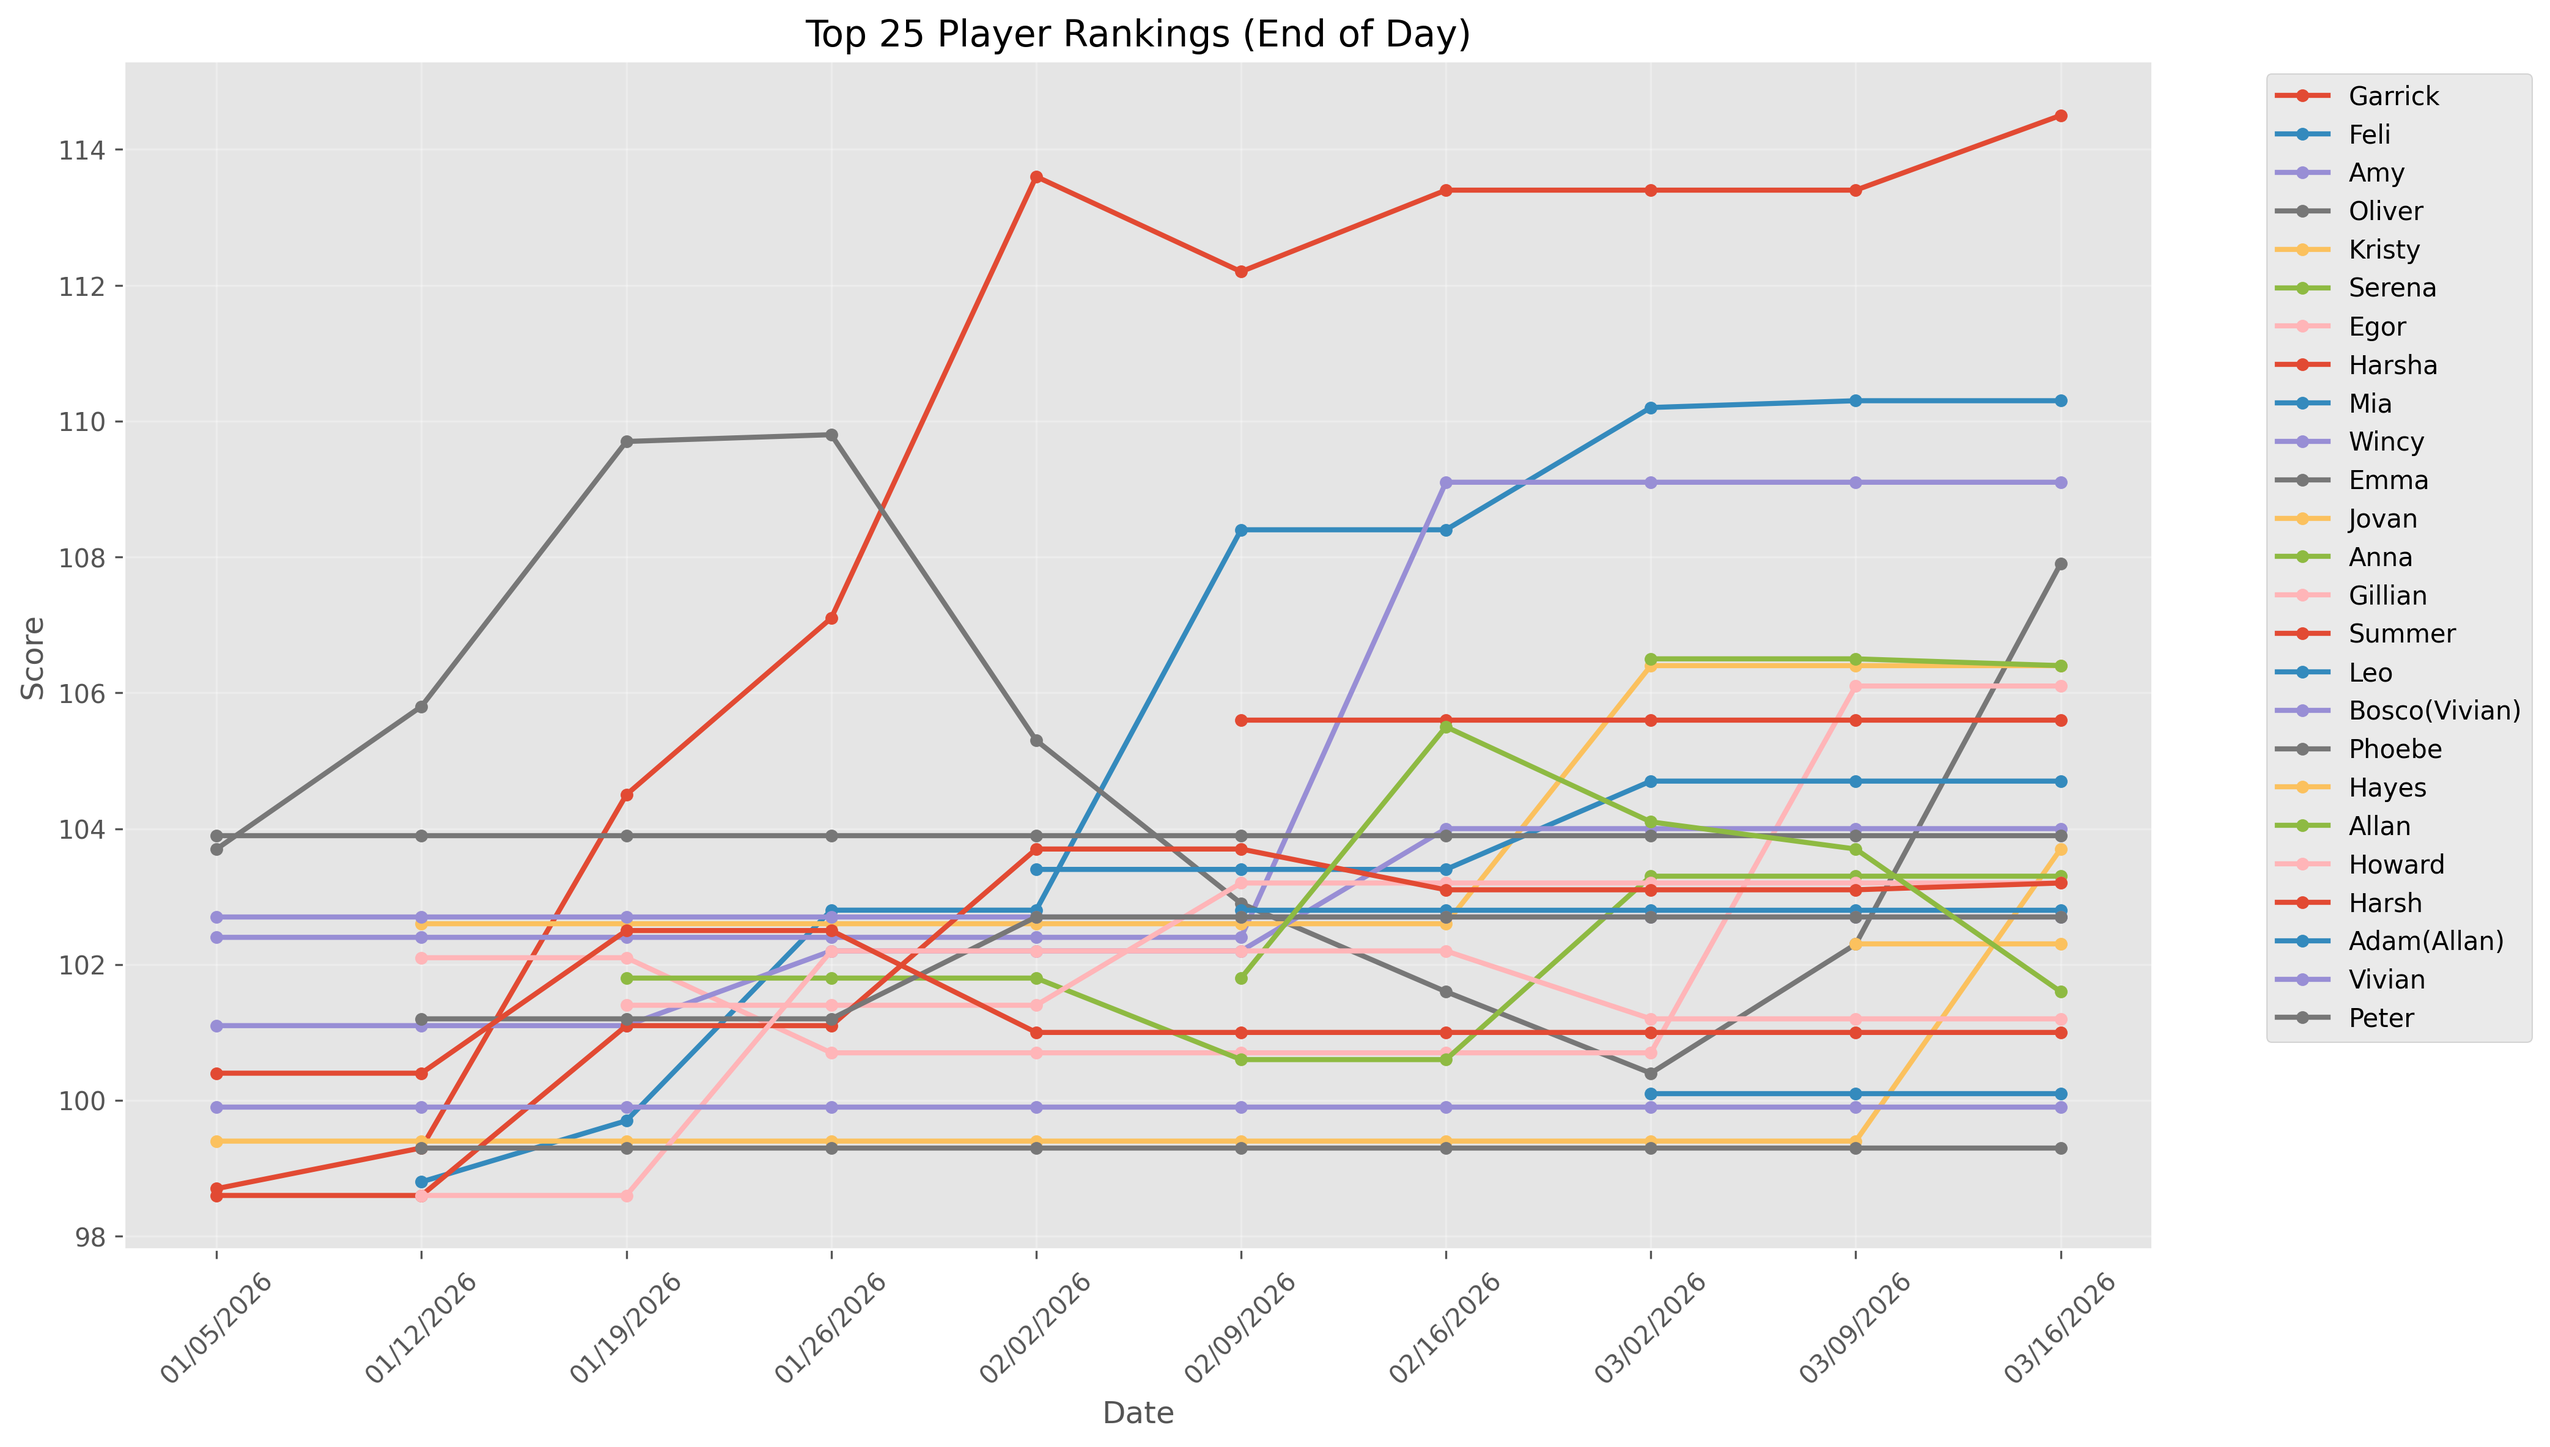
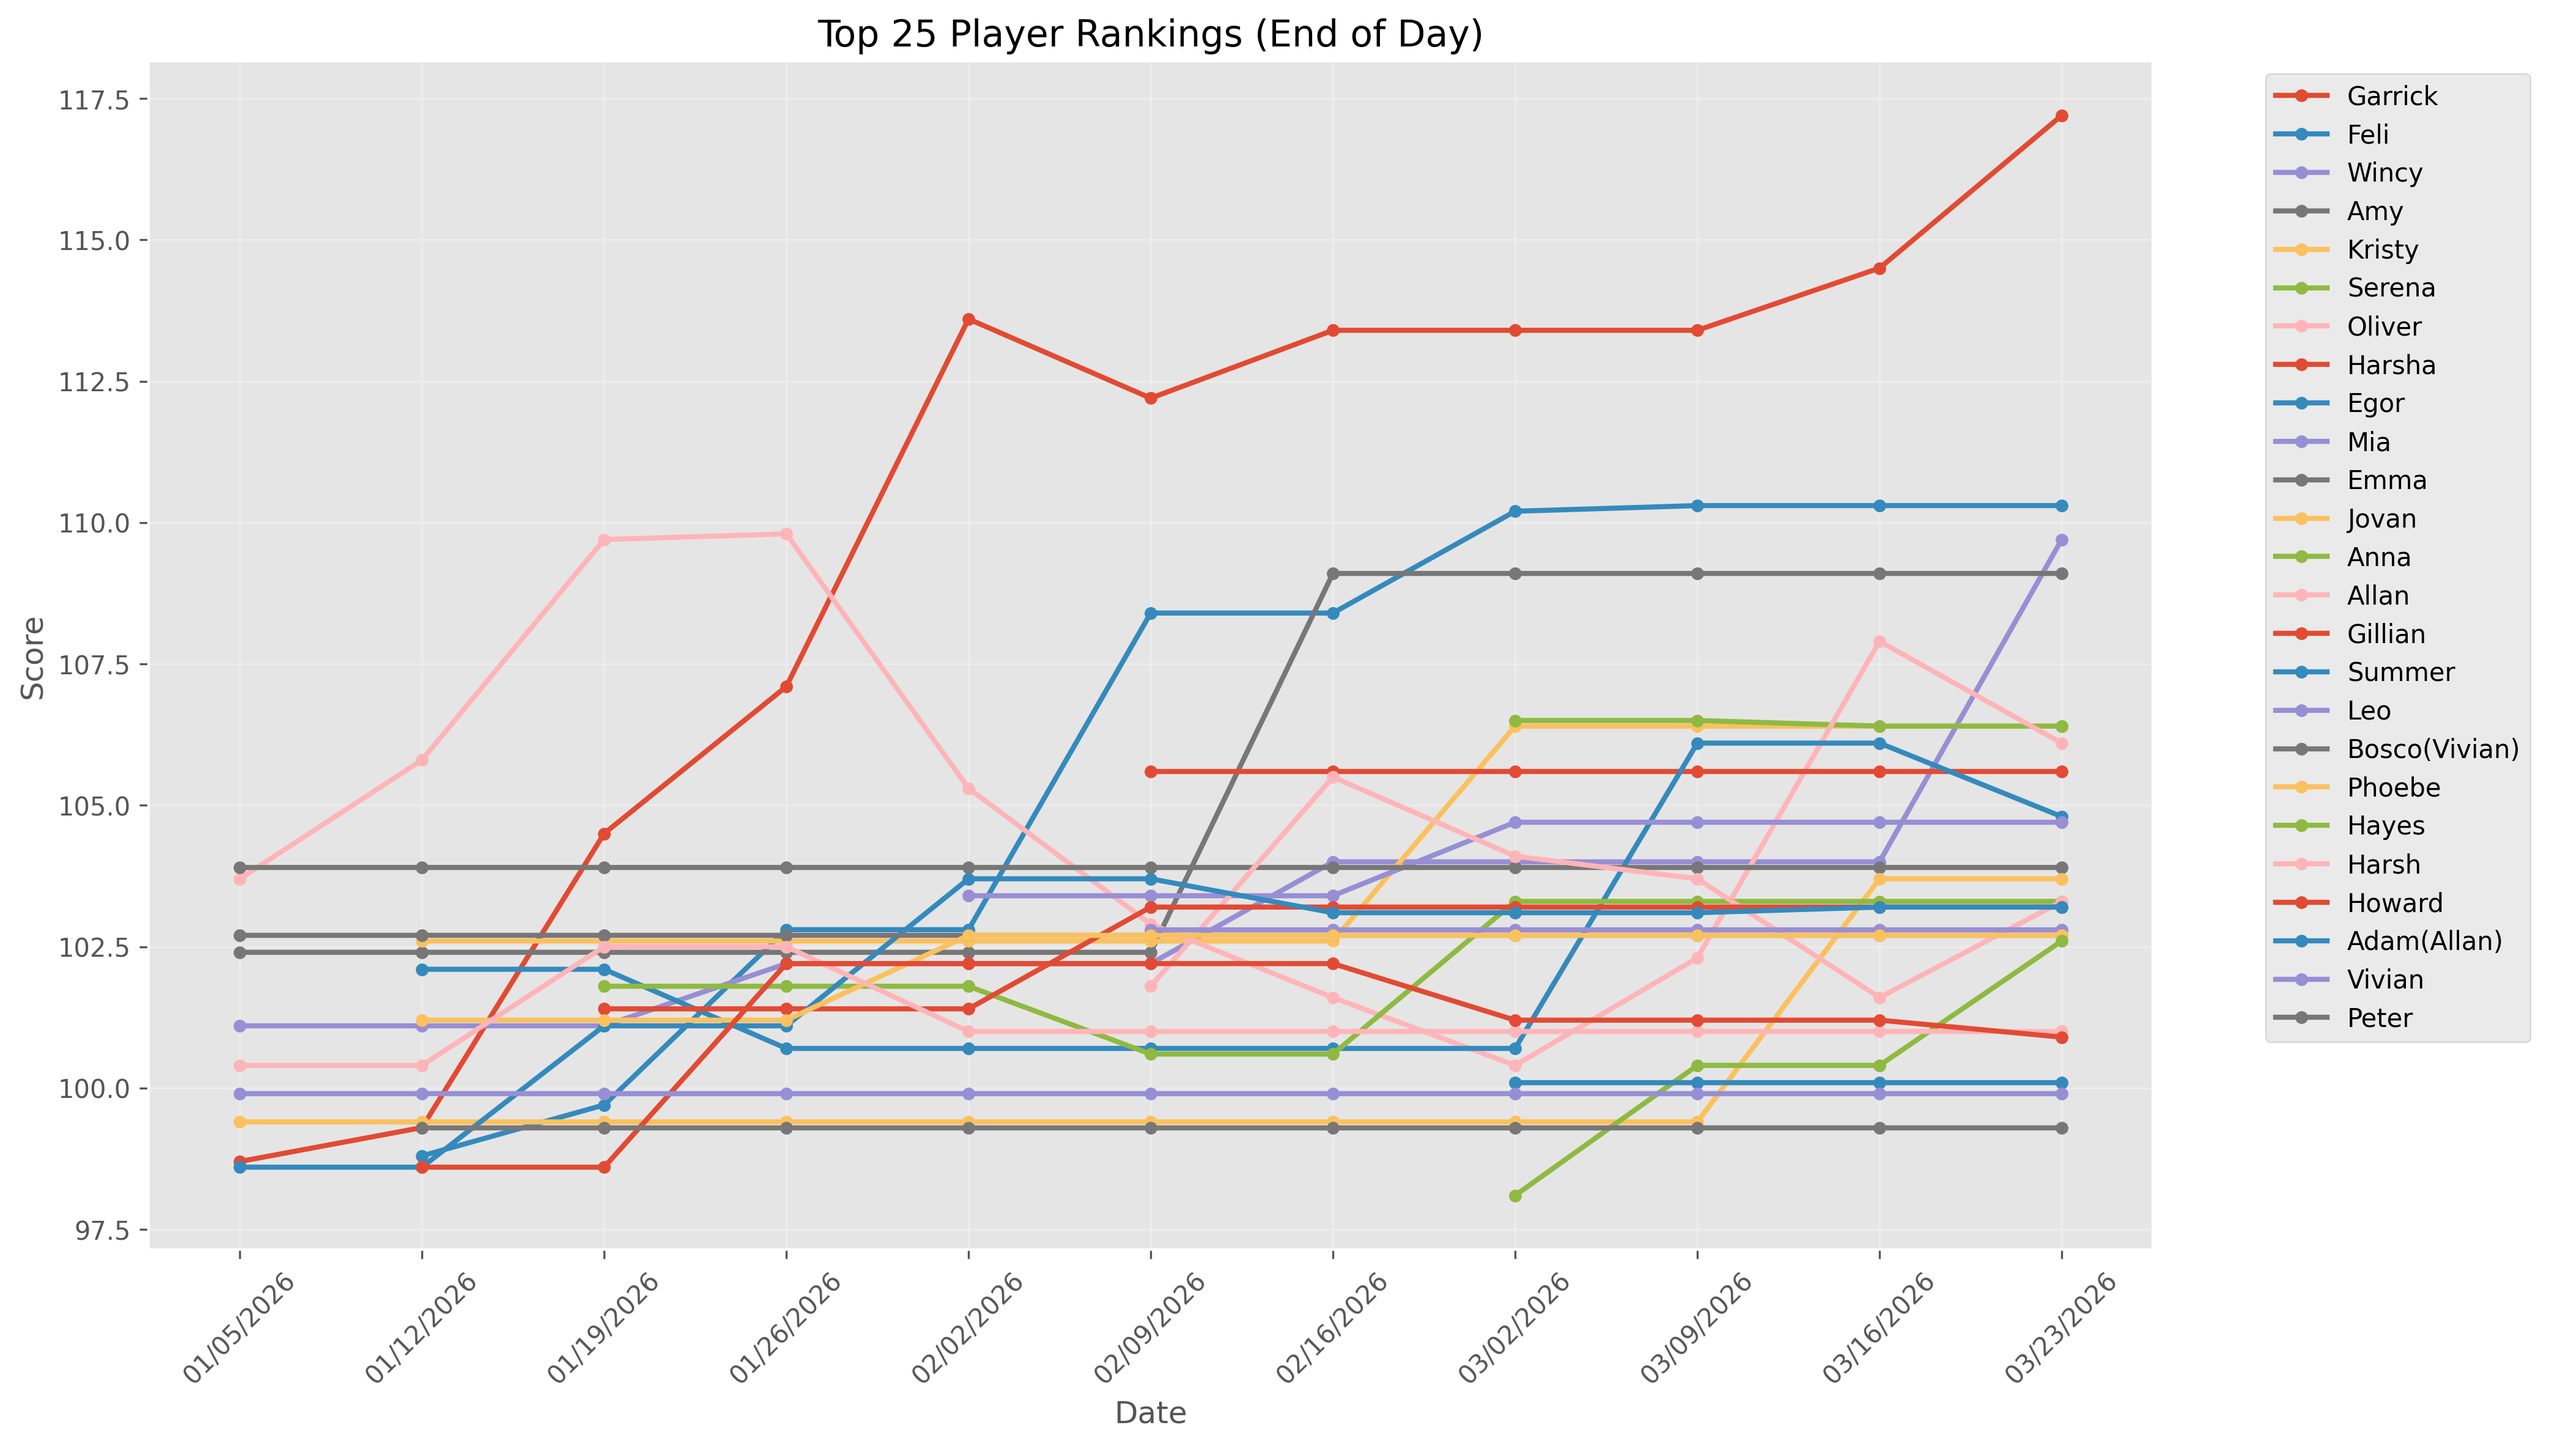
update rankings

diff --git a/README.md b/README.md
@@ -4,40 +4,38 @@
 
 | Player | Score | Wins | Losses | Win % |
 | --- | --- | --- | --- | --- |
-| Garrick | 114.50 | 16 | 14 | 53% |
+| Garrick | 117.20 | 19 | 15 | 56% |
 | Feli | 110.30 | 5 | 6 | 45% |
+| Wincy | 109.70 | 7 | 2 | 78% |
 | Amy | 109.10 | 4 | 3 | 57% |
-| Oliver | 107.90 | 18 | 20 | 47% |
 | Kristy | 106.40 | 2 | 1 | 67% |
 | Serena | 106.40 | 4 | 4 | 50% |
-| Egor | 106.10 | 5 | 4 | 56% |
+| Oliver | 106.10 | 19 | 23 | 45% |
 | Harsha | 105.60 | 1 | 1 | 50% |
+| Egor | 104.80 | 6 | 7 | 46% |
 | Mia | 104.70 | 3 | 0 | 100% |
-| Wincy | 104.00 | 3 | 2 | 60% |
 | Emma | 103.90 | 3 | 0 | 100% |
 | Jovan | 103.70 | 4 | 4 | 50% |
 | Anna | 103.30 | 3 | 1 | 75% |
+| Allan | 103.30 | 7 | 13 | 35% |
 | Gillian | 103.20 | 3 | 1 | 75% |
 | Summer | 103.20 | 6 | 12 | 33% |
 | Leo | 102.80 | 0 | 1 | 0% |
 | Bosco(Vivian) | 102.70 | 3 | 1 | 75% |
 | Phoebe | 102.70 | 2 | 3 | 40% |
-| Hayes | 102.30 | 2 | 2 | 50% |
-| Allan | 101.60 | 5 | 11 | 31% |
-| Howard | 101.20 | 2 | 5 | 29% |
+| Hayes | 102.60 | 4 | 6 | 40% |
 | Harsh | 101.00 | 3 | 5 | 38% |
+| Howard | 100.90 | 3 | 8 | 27% |
 | Adam(Allan) | 100.10 | 0 | 2 | 0% |
 | Vivian | 99.90 | 1 | 2 | 33% |
 | Peter | 99.30 | 0 | 1 | 0% |
 | Elina(Egor) | 99.30 | 0 | 1 | 0% |
 | Jane | 99.30 | 1 | 4 | 20% |
 | Alex(Oliver) | 99.30 | 0 | 1 | 0% |
-| Nicole | 98.80 | 0 | 4 | 0% |
-| NicoleHu | 98.80 | 0 | 3 | 0% |
 | Tara | 98.70 | 1 | 13 | 7% |
 | Alima | 98.60 | 0 | 2 | 0% |
 | Tyler | 98.30 | 3 | 3 | 50% |
-| Hayes(Allan) | 98.10 | 0 | 2 | 0% |
+| Nicole | 97.60 | 0 | 7 | 0% |
 | Alexandra | 92.90 | 0 | 3 | 0% |
 
 ### Rankings over Time
@@ -80,16 +78,17 @@
 
 | Player | Wins | Losses | Win % |
 | --- | --- | --- | --- |
+| Wincy | 3 | 1 | 75% |
 | Tyler | 2 | 0 | 100% |
-| Garrick | 3 | 2 | 60% |
+| Allan | 3 | 2 | 60% |
+| Garrick | 4 | 3 | 57% |
 | Anna | 1 | 0 | 100% |
 | Jane | 1 | 0 | 100% |
 | Amy | 2 | 1 | 67% |
 | Bosco(Vivian) | 1 | 0 | 100% |
 | Emma | 1 | 0 | 100% |
-| Wincy | 1 | 1 | 50% |
-| Allan | 1 | 2 | 33% |
-| Oliver | 2 | 3 | 40% |
+| Hayes | 1 | 1 | 50% |
+| Egor | 1 | 1 | 50% |
 | Harsh | 0 | 1 | 0% |
 | Jovan | 0 | 1 | 0% |
 | Tara | 0 | 1 | 0% |
@@ -97,6 +96,8 @@
 | Serena | 0 | 1 | 0% |
 | Vivian | 0 | 1 | 0% |
 | Gillian | 0 | 1 | 0% |
+| Howard | 0 | 2 | 0% |
+| Oliver | 2 | 5 | 29% |
 
 ### Coup
 
@@ -118,7 +119,7 @@
 | Feli | 0 | 1 | 0% |
 | Oliver | 0 | 1 | 0% |
 | Garrick | 0 | 1 | 0% |
-| NicoleHu | 0 | 1 | 0% |
+| Nicole | 0 | 1 | 0% |
 | Egor | 0 | 1 | 0% |
 
 ### Incan Gold
@@ -134,7 +135,7 @@
 | Summer | 1 | 3 | 25% |
 | Adam(Allan) | 0 | 1 | 0% |
 | Allan | 0 | 3 | 0% |
-| Hayes(Allan) | 0 | 1 | 0% |
+| Hayes | 0 | 1 | 0% |
 | Tyler | 0 | 1 | 0% |
 | Oliver | 0 | 5 | 0% |
 
@@ -152,7 +153,7 @@
 | Wincy | 1 | 1 | 50% |
 | Egor | 1 | 2 | 33% |
 | Phoebe | 0 | 1 | 0% |
-| NicoleHu | 0 | 1 | 0% |
+| Nicole | 0 | 1 | 0% |
 | Summer | 1 | 2 | 33% |
 | Alima | 0 | 2 | 0% |
 | Allan | 0 | 3 | 0% |
@@ -161,16 +162,16 @@
 
 | Player | Wins | Losses | Win % |
 | --- | --- | --- | --- |
-| Oliver | 6 | 2 | 75% |
+| Oliver | 7 | 3 | 70% |
+| Garrick | 6 | 3 | 67% |
 | Gillian | 3 | 0 | 100% |
 | Summer | 3 | 2 | 60% |
 | Mia | 2 | 0 | 100% |
-| Allan | 2 | 0 | 100% |
 | Emma | 2 | 0 | 100% |
-| Garrick | 4 | 3 | 57% |
+| Wincy | 2 | 0 | 100% |
 | Vivian | 1 | 0 | 100% |
+| Allan | 2 | 2 | 50% |
 | Kristy | 1 | 0 | 100% |
-| Egor | 1 | 0 | 100% |
 | Harsh | 2 | 2 | 50% |
 | Amy | 1 | 1 | 50% |
 | Phoebe | 1 | 1 | 50% |
@@ -178,16 +179,17 @@
 | Tyler | 1 | 1 | 50% |
 | Anna | 1 | 1 | 50% |
 | Tara | 1 | 2 | 33% |
+| Hayes | 1 | 2 | 33% |
 | Bosco(Vivian) | 1 | 1 | 50% |
 | Jovan | 1 | 1 | 50% |
+| Egor | 1 | 2 | 33% |
+| Howard | 1 | 3 | 25% |
 | Peter | 0 | 1 | 0% |
 | Elina(Egor) | 0 | 1 | 0% |
-| Hayes(Allan) | 0 | 1 | 0% |
 | Adam(Allan) | 0 | 1 | 0% |
 | Alex(Oliver) | 0 | 1 | 0% |
 | Harsha | 0 | 1 | 0% |
 | Serena | 0 | 1 | 0% |
-| Howard | 0 | 2 | 0% |
 | Alexandra | 0 | 2 | 0% |
 | Jane | 0 | 2 | 0% |
 
@@ -209,7 +211,7 @@
 | Allan | 1 | 0 | 100% |
 | Oliver | 0 | 1 | 0% |
 | Tara | 0 | 1 | 0% |
-| NicoleHu | 0 | 1 | 0% |
+| Nicole | 0 | 1 | 0% |
 
 ### Wavelength
 
